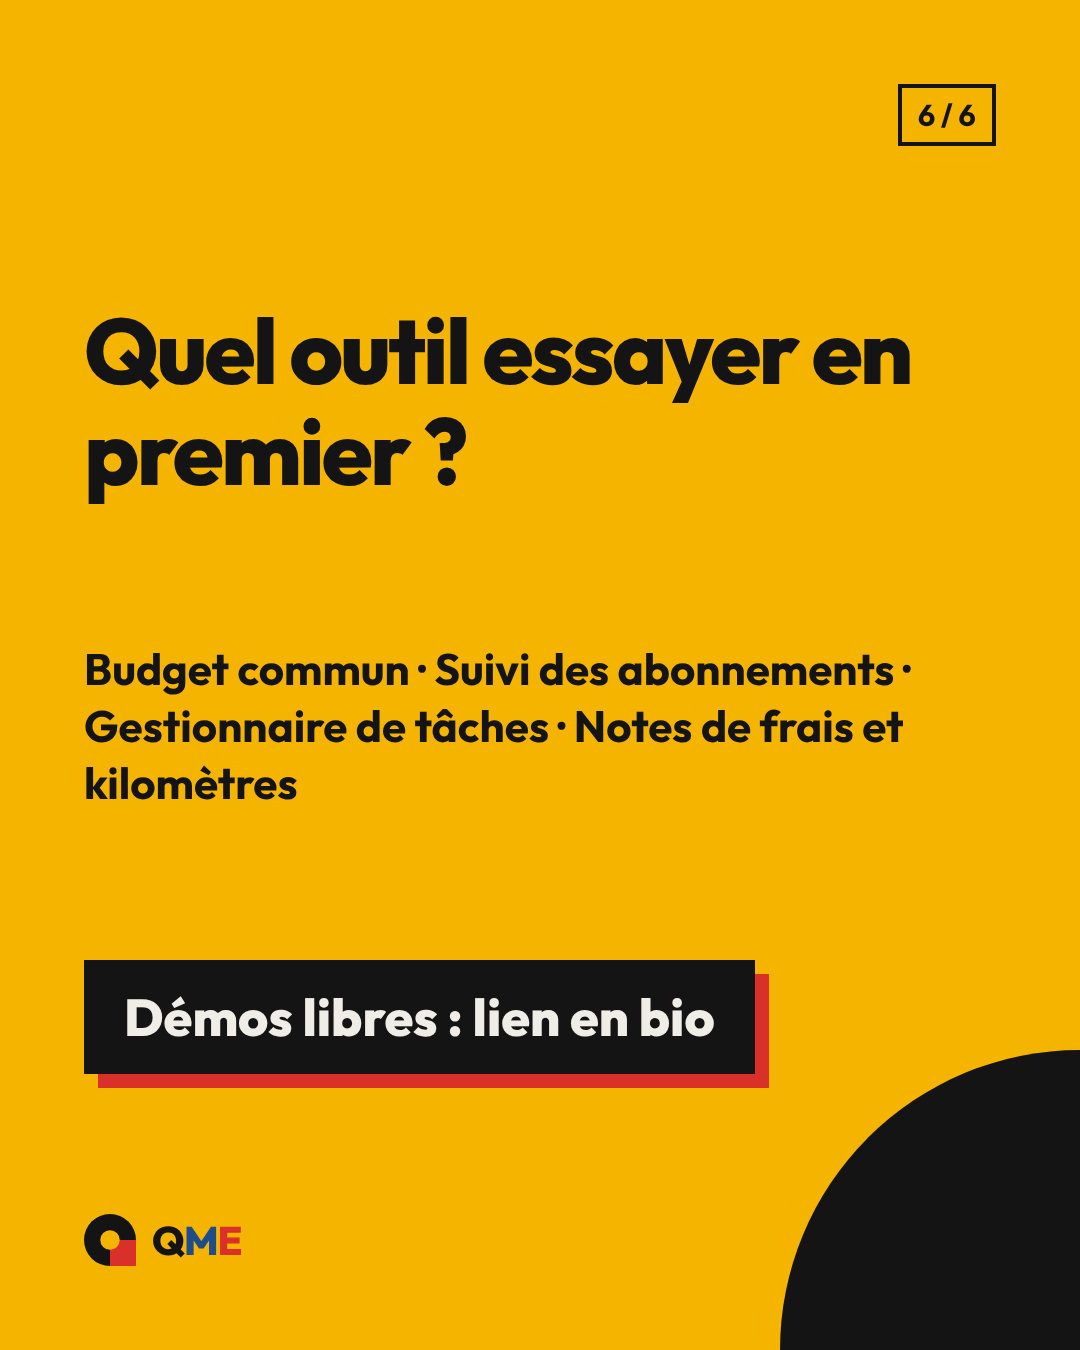
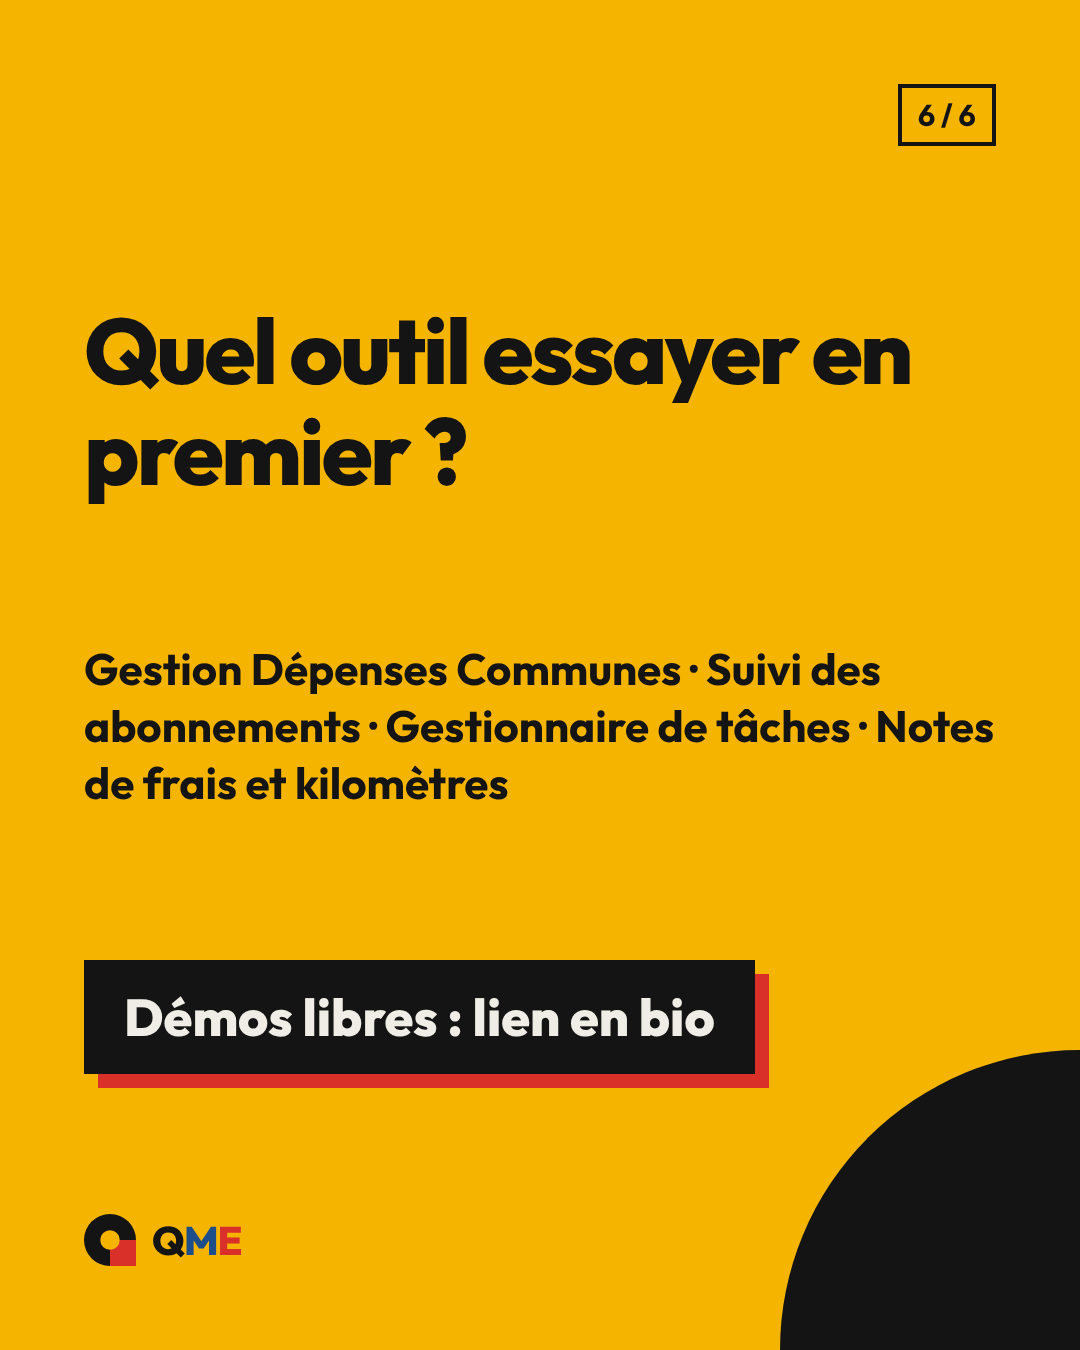
IG-159 et IG-160 : « Budget commun » devient « Gestion Dépenses Communes » (renommage du 20/11)
Sources et vues concernées (IG-159 vue 6, IG-160 vues 2 et 6), identiques aux
fichiers déjà remplacés dans Drive.

Claude-Session: https://claude.ai/code/session_0183EW52FH8pgsv7Wx1MwgP4

Changed region(s): [[0.0611, 0.4667, 0.9167, 0.5911]]

diff --git a/docs/templates/communication/instagram/production/IG-160.html b/docs/templates/communication/instagram/production/IG-160.html
@@ -40,14 +40,14 @@ h1 mark,h2 mark{background:var(--jaune);color:var(--encre);padding:0 10px;white-
 <h2 style="top:420px;font-size:88px">À parts égales</h2>
 <div class="duo" style="top:600px"><div><small>Camille</small><b>120 €</b></div><div><small>Sami</small><b>120 €</b></div></div>
 <p class="p" style="top:900px">Simple. Mais si l'un gagne moins, il paie la même chose.</p>
-<p class="note">Démo du Budget commun : 240 € de cadeaux. Données fictives.</p></section>
+<p class="note">Démo de Gestion Dépenses Communes : 240 € de cadeaux. Données fictives.</p></section>
 <section class="cadre" id="IG-160-partage-3" style="background:var(--papier)">
 <span class="compteur">3 / 6</span>
 <div class="num" style="background:var(--encre)">2</div>
 <h2 style="top:420px;font-size:88px">Au prorata des revenus</h2>
 <div class="duo" style="top:600px"><div><small>Camille</small><b>138,67 €</b></div><div><small>Sami</small><b>101,33 €</b></div></div>
 <p class="p" style="top:900px">Chacun selon ce qu'il gagne, calculé au centime.</p>
-<p class="note">Démo du Budget commun : mêmes 240 €. Données fictives.</p></section>
+<p class="note">Démo de Gestion Dépenses Communes : mêmes 240 €. Données fictives.</p></section>
 <section class="cadre" id="IG-160-partage-4" style="background:var(--papier)">
 <span class="compteur">4 / 6</span>
 <div class="num" style="background:var(--encre)">3</div>
@@ -66,7 +66,7 @@ h1 mark,h2 mark{background:var(--jaune);color:var(--encre);padding:0 10px;white-
 <span class="compteur">6 / 6</span>
 <div class="f" style="right:0;bottom:0;width:300px;height:300px;background:var(--bleu);border-top-left-radius:300px"></div>
 <h2 style="top:300px;font-size:92px">Laquelle est juste chez vous&nbsp;?</h2>
-<p class="p" style="top:620px;font-weight:600">Le Budget commun choisit la règle <b>dépense par dépense</b> et tient le solde au centime.</p>
+<p class="p" style="top:620px;font-weight:600">Gestion Dépenses Communes choisit la règle <b>dépense par dépense</b> et tient le solde au centime.</p>
 <div class="bouton" style="top:900px">Essai 14 jours : lien en bio</div>
 <div class="marque"><svg viewBox="0 0 80 80"><path d="M40,0 A40,40 0 0 1 80,40 V80 H40 A40,40 0 0 1 0,40 A40,40 0 0 1 40,0 Z" fill="#141414"/><rect x="40" y="40" width="40" height="40" fill="#D9302A"/><circle cx="40" cy="40" r="15" fill="#F5B400"/></svg><span>Q<span class="m">M</span><span class="e">E</span></span></div></section>
 </body></html>

diff --git a/docs/templates/communication/instagram/production/IG-159.html b/docs/templates/communication/instagram/production/IG-159.html
@@ -67,7 +67,7 @@ h1 mark,h2 mark{background:var(--jaune);color:var(--encre);padding:0 10px;white-
 <span class="compteur">6 / 6</span>
 <div class="f" style="right:0;bottom:0;width:300px;height:300px;background:var(--encre);border-top-left-radius:300px"></div>
 <h2 style="top:300px;font-size:92px">Quel outil essayer en premier&nbsp;?</h2>
-<p class="p" style="top:640px;font-weight:700">Budget commun · Suivi des abonnements · Gestionnaire de tâches · Notes de frais et kilomètres</p>
+<p class="p" style="top:640px;font-weight:700">Gestion Dépenses Communes · Suivi des abonnements · Gestionnaire de tâches · Notes de frais et kilomètres</p>
 <div class="bouton" style="top:960px">Démos libres : lien en bio</div>
 <div class="marque"><svg viewBox="0 0 80 80"><path d="M40,0 A40,40 0 0 1 80,40 V80 H40 A40,40 0 0 1 0,40 A40,40 0 0 1 40,0 Z" fill="#141414"/><rect x="40" y="40" width="40" height="40" fill="#D9302A"/><circle cx="40" cy="40" r="15" fill="#F5B400"/></svg><span>Q<span class="m">M</span><span class="e">E</span></span></div></section>
 </body></html>
